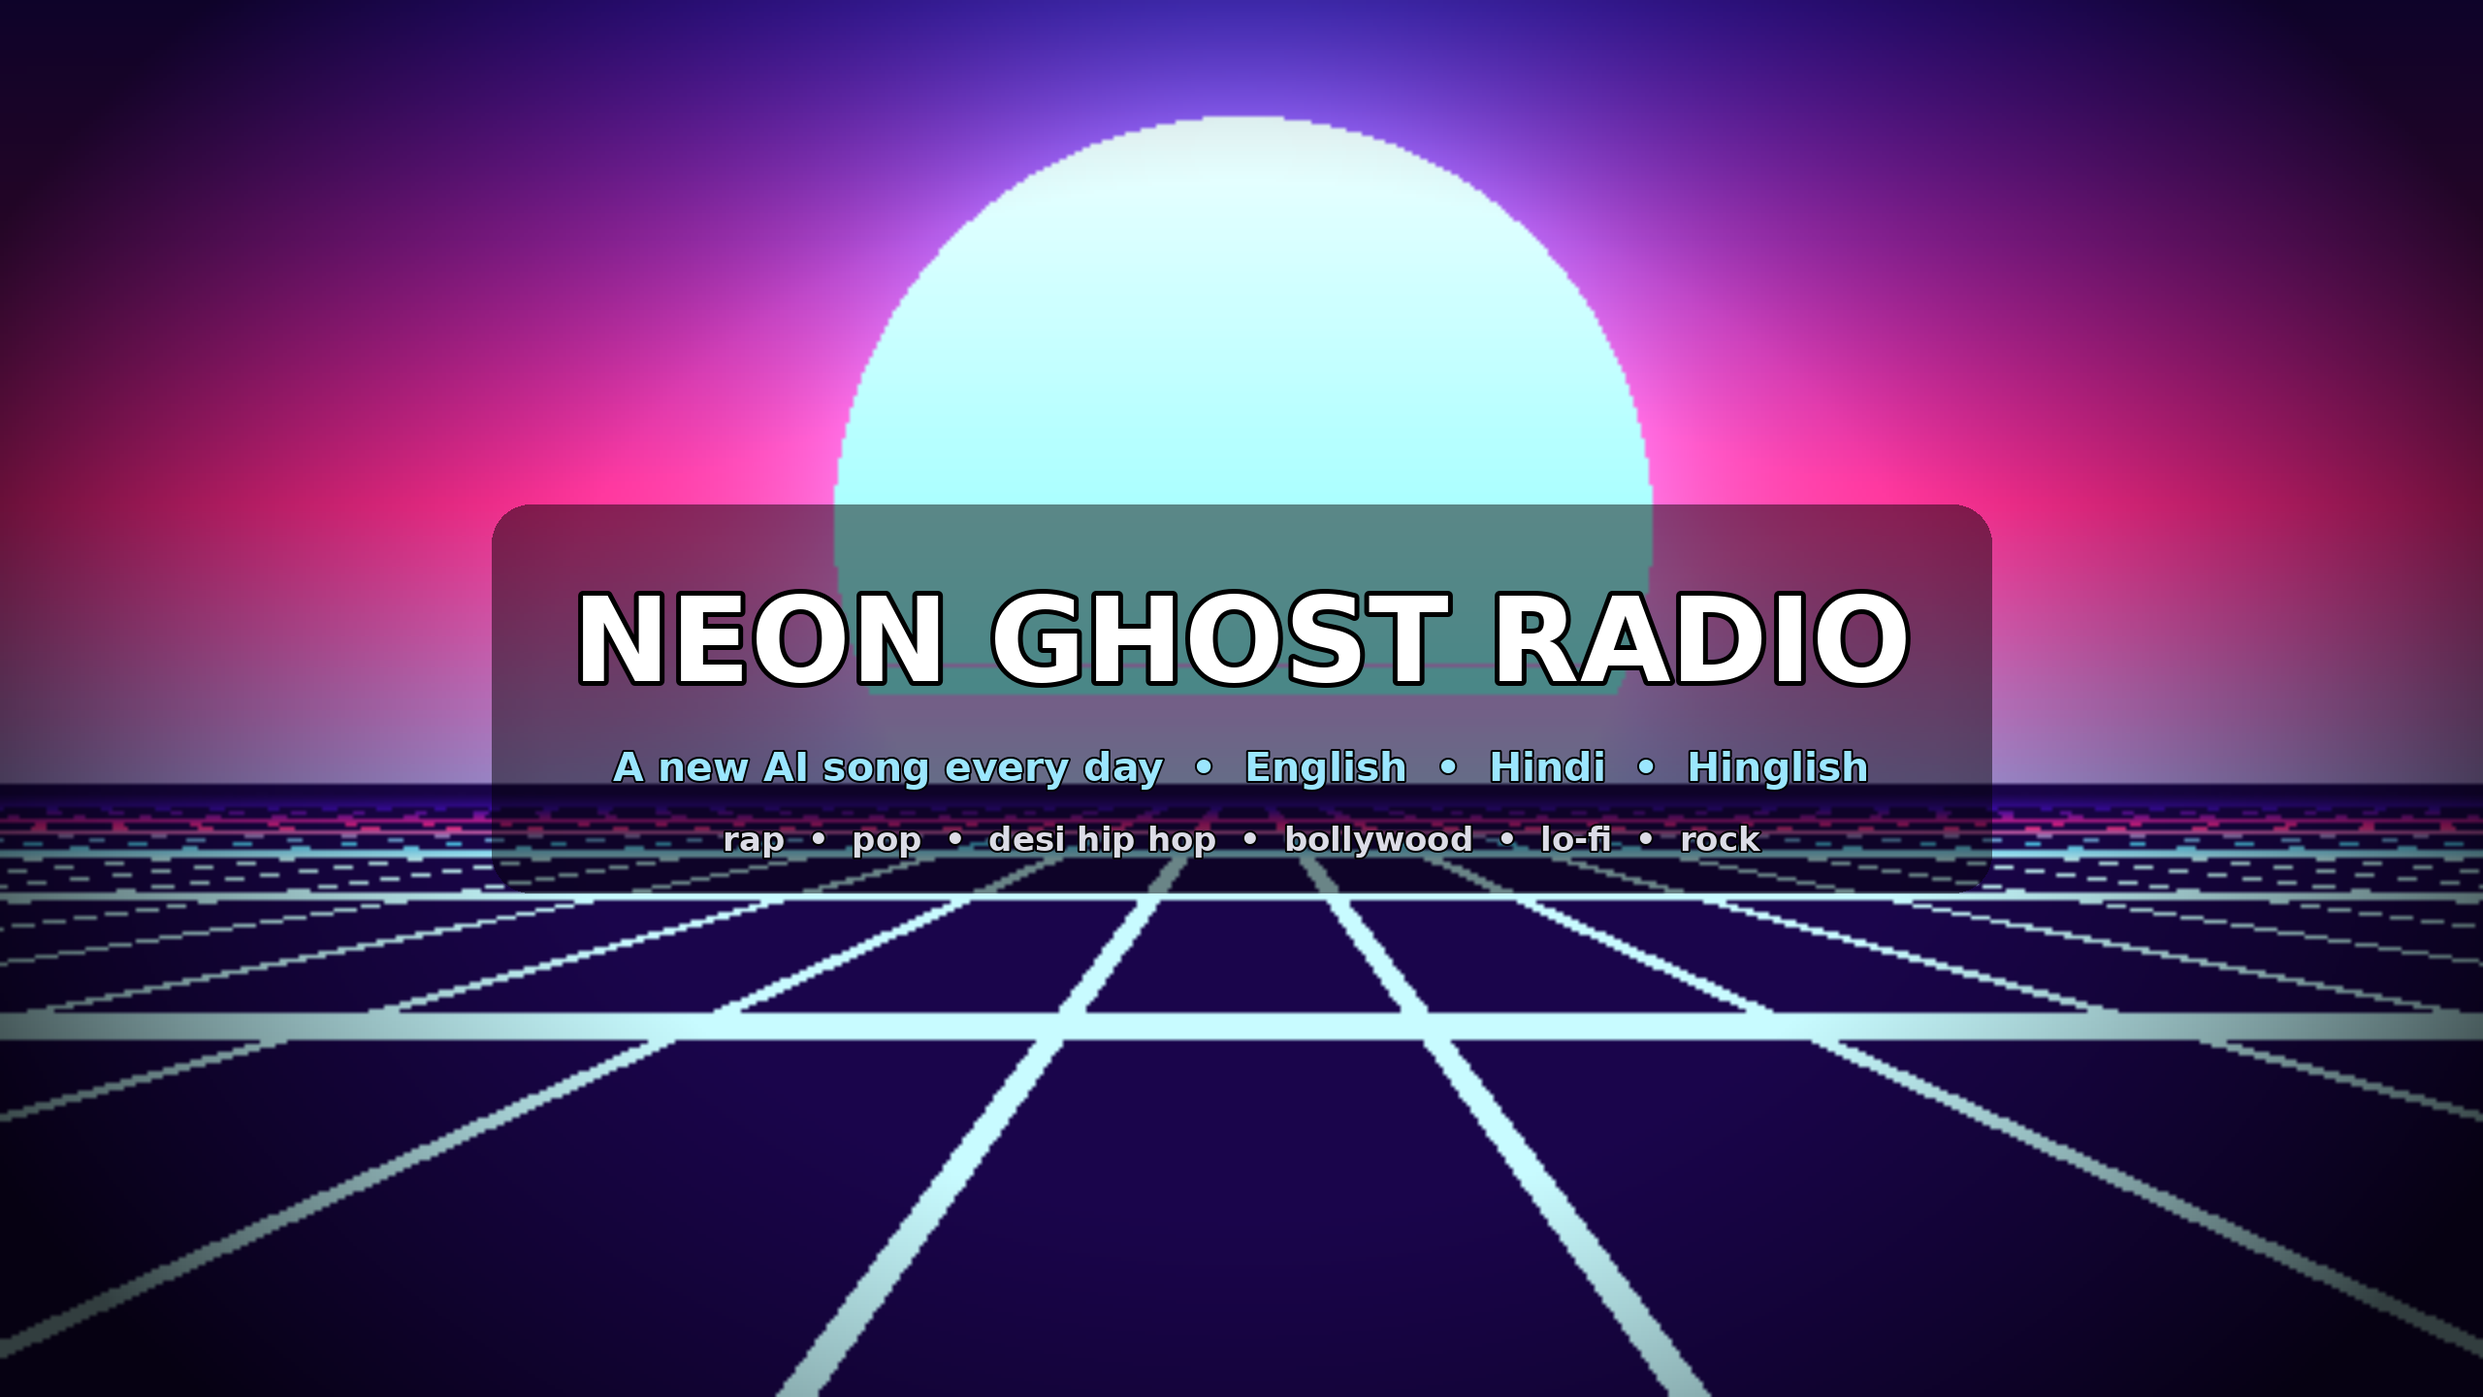
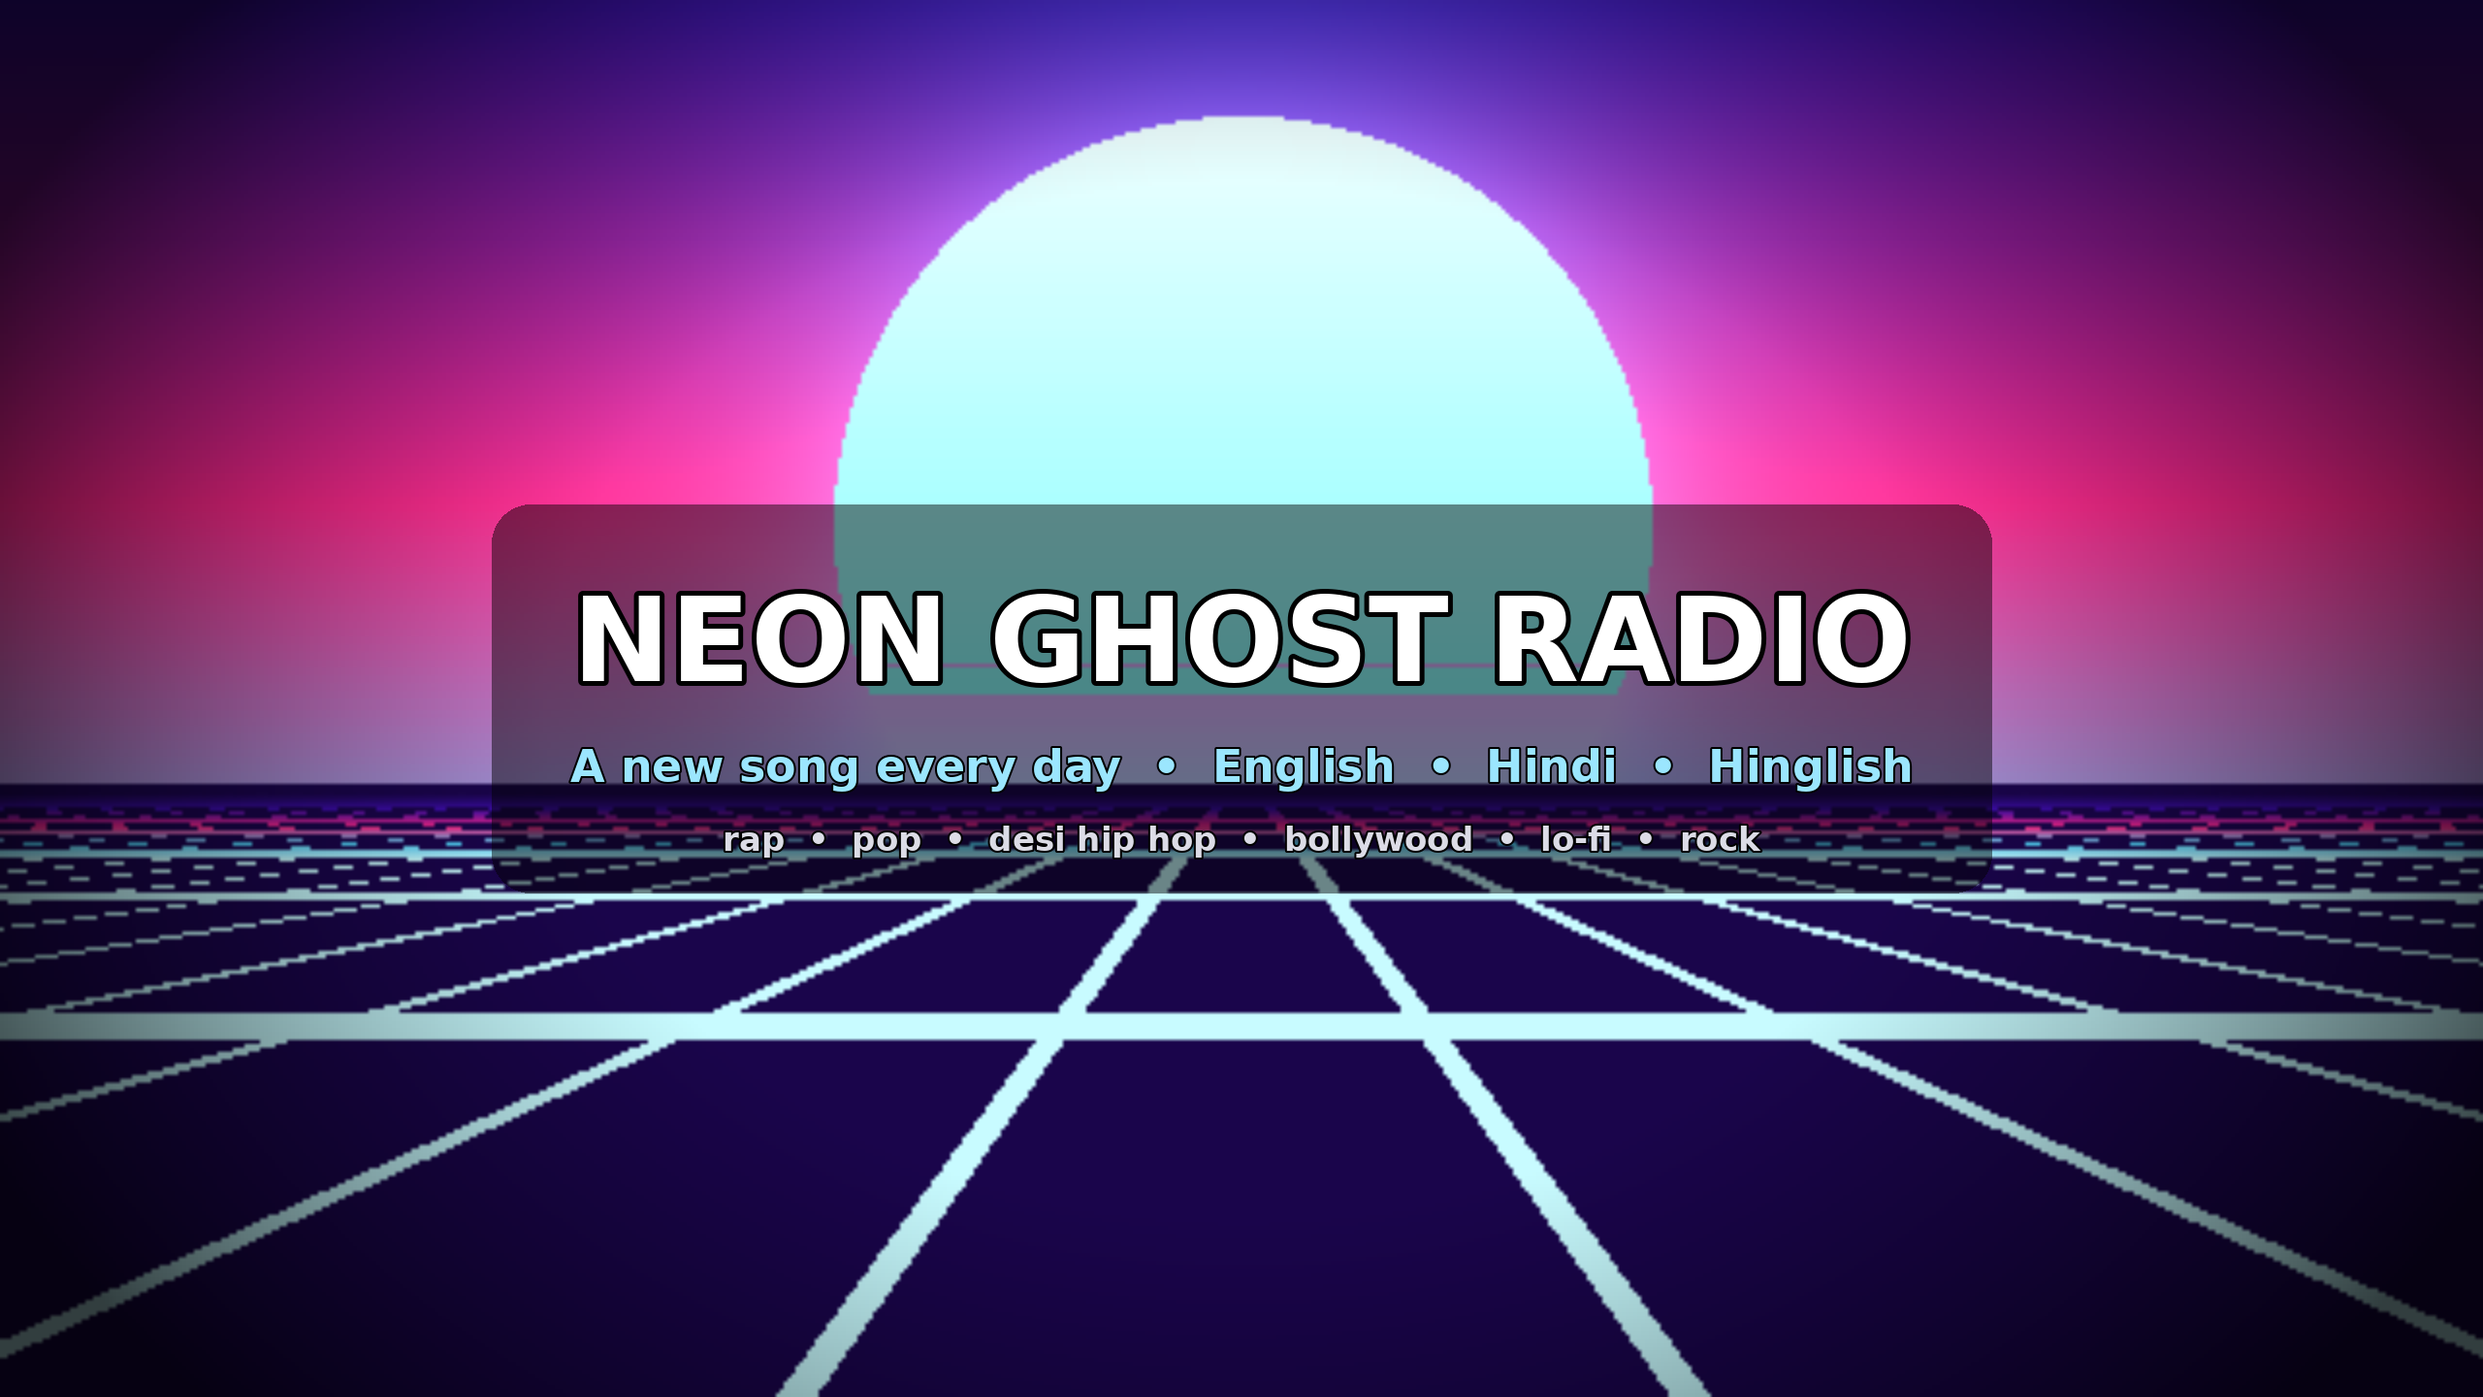
Keep AI out of audience-facing text until the creator chooses to reveal
New channel.disclose_ai setting (default false): titles, descriptions,
hashtags, tags and channel art no longer mention AI; the LLM is told not to,
and its description/hashtags are scrubbed as a safety net. Setting it to true
restores AI titles, a 'how this was made' section, AI tags and AI art.
YouTube's containsSyntheticMedia flag stays on in both modes.

Also: optional engagement_line for descriptions, and the thumbnail picker no
longer crashes on clips shorter than 6 s.

Claude-Session: https://claude.ai/code/session_01KDmuQhUS9HJp4N8W5B1dSm

Changed region(s): [[0.2188, 0.5312, 0.7812, 0.5625]]

diff --git a/src/songwriter.py b/src/songwriter.py
@@ -15,7 +15,7 @@ VISUAL_STYLES = {
     "waves": "layered glowing waveforms like ocean light",
 }
 
-SYSTEM = """You are a hit songwriter and creative director for an AI music YouTube channel that
+SYSTEM = """You are a hit songwriter and creative director for a music YouTube channel that
 releases songs in English, Hindi and Hinglish. You write ORIGINAL songs. Never copy or closely
 imitate existing lyrics, and never name or impersonate real artists. Keep lyrics radio-safe
 (no slurs, no explicit sexual content). Write vivid, specific, emotionally real lines with
@@ -69,7 +69,26 @@ Return JSON with exactly these keys:
   "hashtags": ["#tag", ...] (5-8)
 }}
 
-Structure: verse (8 lines), chorus (4-6 lines), verse (8 lines), chorus, bridge (4 lines), chorus."""
+Structure: verse (8 lines), chorus (4-6 lines), verse (8 lines), chorus, bridge (4 lines), chorus.
+{disclosure_rule}"""
+
+NO_AI_RULE = ("Do NOT mention AI, artificial intelligence, algorithms, or how the song was made anywhere in "
+              "the title, description or hashtags. Present it simply as a new song release.")
+
+_AI_RE = re.compile(r"\b(A\.?I\.?|artificial[ -]intelligence|AI[- ]generated|generated by|algorithm\w*|"
+                    r"machine[- ]made|neural|synthetic)\b", re.I)
+
+
+def scrub_ai(text: str) -> str:
+    """Drop whole sentences that mention AI / how the song was made."""
+    parts = re.split(r"(?<=[.!?…])\s+", text or "")
+    return " ".join(p for p in parts if not _AI_RE.search(p)).strip()
+
+
+def _is_ai_tag(tag: str) -> bool:
+    t = tag.lower().lstrip("#")
+    return bool(re.fullmatch(r"ai(music|song|songs|generated|art|rap|cover|singer|artist|vocals)?", t)
+                or "artificial" in t or "generated" in t)
 
 SEEDS = [
     "a late-night drive", "an old photograph", "winning against the odds", "a city that never sleeps",
@@ -119,7 +138,7 @@ def write_song(cfg: dict, history: list[dict], genre_override: str | None = None
     genre = pick_genre(cfg, lang["code"], history, genre_override, song_type)
     gtype = genre.get("type", "sung")
     if offline:
-        return _normalize(_offline_song(genre, lang["code"]), genre, lang)
+        return _scrub(_normalize(_offline_song(genre, lang["code"]), genre, lang), cfg)
     recent_themes = "; ".join(h.get("theme", "") for h in history[-15:]) or "none"
     try:
         spec = chat_json(
@@ -130,12 +149,22 @@ def write_song(cfg: dict, history: list[dict], genre_override: str | None = None
                 type_rule=TYPE_RULES[gtype], genre=genre["name"], style=genre["style"],
                 recent_themes=recent_themes, seed=random.choice(SEEDS),
                 styles=" | ".join(f'"{s}"' for s in VISUAL_STYLES),
+                disclosure_rule="" if cfg["channel"].get("disclose_ai") else NO_AI_RULE,
             ),
         )
-        return _normalize(spec, genre, lang)
+        return _scrub(_normalize(spec, genre, lang), cfg)
     except Exception as e:  # noqa: BLE001 — never miss a day because of the LLM
         print(f"::warning::LLM songwriting failed, using built-in fallback lyrics: {e}")
-        return _normalize(_offline_song(genre, lang["code"]), genre, lang)
+        return _scrub(_normalize(_offline_song(genre, lang["code"]), genre, lang), cfg)
+
+
+def _scrub(spec: dict, cfg: dict) -> dict:
+    if cfg["channel"].get("disclose_ai"):
+        return spec
+    spec["description"] = scrub_ai(spec.get("description", ""))
+    spec["hashtags"] = [h for h in spec["hashtags"] if not _is_ai_tag(h)]
+    spec["title"] = re.sub(r"\s*[(\[]?\bA\.?I\.?\b[)\]]?\s*", " ", spec["title"]).strip() or spec["title"]
+    return spec
 
 
 def _line_pair(l) -> tuple[str, str | None]:
@@ -241,7 +270,7 @@ def _offline_song(genre: dict, lang: str = "en") -> dict:
                                   ["#03071e", "#6a040f", "#e85d04", "#ffba08"],
                                   ["#011627", "#2ec4b6", "#e71d36", "#fdfffc"]]),
         "description": f"{title} is about refusing to fade into the noise of the city.",
-        "hashtags": ["#aimusic", "#newmusic", f"#{genre['name'].replace(' ', '')}"],
+        "hashtags": ["#newmusic", "#newsong", f"#{genre['name'].replace(' ', '').replace('&', 'n')}"],
     }
 
 
@@ -294,5 +323,5 @@ def _offline_song_hindi(genre: dict) -> dict:
         "palette": random.choice([["#1a0505", "#7a1f0f", "#e2711d", "#ffc971"],
                                   ["#05061a", "#2b2d7a", "#d1495b", "#edae49"]]),
         "description": "Ek akela raasta, ek maa ki seekh, aur roshni ki taraf badhte kadam.",
-        "hashtags": ["#hindisong", "#aimusic", "#desihiphop", "#newhindisong"],
+        "hashtags": ["#hindisong", "#desihiphop", "#newhindisong", "#hindirap"],
     }

diff --git a/src/main.py b/src/main.py
@@ -30,24 +30,31 @@ def load_history() -> list[dict]:
 
 
 def build_description(spec: dict, cfg: dict, engine: str) -> str:
-    ch = cfg["channel"]
-    return "\n".join([
-        spec["description"],
-        "",
+    ch, disclose = cfg["channel"], cfg["channel"].get("disclose_ai", False)
+    lines = [spec["description"], ""]
+    if cfg["youtube"].get("engagement_line"):
+        lines += [cfg["youtube"]["engagement_line"], ""]
+    lines += [
         f"🎧 {spec['title']} — {ch['artist']}",
         f"Genre: {spec['genre']}  |  Language: {spec['language_name']}  |  Mood: {spec['mood']}  |  {spec['bpm']} BPM",
         "",
         "📝 LYRICS",
         lyrics_text(spec).replace("[", "(").replace("]", ")"),
         "",
-        "🤖 HOW THIS WAS MADE",
-        f"Everything on {ch['name']} is generated by AI, automatically, every day.",
-        "Lyrics & concept: large language model",
-        f"Music & vocals: {engine}",
-        "Visuals: procedural audio-reactive animation",
-        "",
-        " ".join(spec["hashtags"] + ["#aimusic", "#aisong"] + (["#hindisong"] if spec["language"] != "en" else [])),
-    ])
+    ]
+    if disclose:
+        lines += [
+            "🤖 HOW THIS WAS MADE",
+            f"Everything on {ch['name']} is generated by AI, automatically, every day.",
+            "Lyrics & concept: large language model",
+            f"Music & vocals: {engine}",
+            "Visuals: procedural audio-reactive animation",
+            "",
+        ]
+    tags = spec["hashtags"] + (["#aimusic", "#aisong"] if disclose else ["#newmusic"]) \
+        + (["#hindisong"] if spec["language"] != "en" else [])
+    lines.append(" ".join(dict.fromkeys(tags)))
+    return "\n".join(lines)
 
 
 def main():
@@ -87,14 +94,17 @@ def main():
     mp4 = video.render(spec, cfg, audio, song["timings"], os.path.join(out, "video.mp4"))
     thumb = video.thumbnail(spec, cfg, audio, os.path.join(out, "thumbnail.jpg"))
 
+    disclose = cfg["channel"].get("disclose_ai", False)
     label = {"hi": "Hindi", "hinglish": "Hindi"}.get(spec["language"], "")
-    title = f"{spec['title']} | {cfg['channel']['artist']} ({spec['genre'].title()} {label + ' ' if label else ''}AI Song)"
+    kind = " ".join(x for x in (spec["genre"].title(), label, "AI Song" if disclose else "Song") if x)
+    title = f"{spec['title']} | {cfg['channel']['artist']} ({kind})"
     desc = build_description(spec, cfg, song["engine"])
-    tags = cfg["youtube"]["default_tags"] + [spec["genre"], f"{spec['genre']} song", spec["title"]] \
-        + [t.lstrip("#") for t in spec["hashtags"]]
+    tags = cfg["youtube"]["default_tags"] + (cfg["youtube"].get("ai_tags", []) if disclose else []) \
+        + [spec["genre"], f"{spec['genre']} song", spec["title"]] + [t.lstrip("#") for t in spec["hashtags"]]
     if spec["language"] != "en":
-        tags += ["hindi song", "new hindi song", "hindi ai song", "hindi rap" if spec["song_type"] == "rap"
-                 else "hindi gaana"]
+        tags += ["hindi song", "new hindi song", "hindi rap" if spec["song_type"] == "rap" else "hindi gaana"]
+        if disclose:
+            tags.append("hindi ai song")
     with open(os.path.join(out, "spec.json"), "w") as fh:
         json.dump({**spec, "engine": song["engine"], "timings": song["timings"], "yt_title": title,
                    "yt_description": desc}, fh, indent=2)

diff --git a/scripts/make_branding.py b/scripts/make_branding.py
@@ -37,6 +37,7 @@ def background(style, w, h, ds=2):
 
 def main():
     cfg = yaml.safe_load(open(os.path.join(ROOT, "config.yaml")))
+    ai = cfg["channel"].get("disclose_ai", False)
     name, artist = cfg["channel"]["name"], cfg["channel"]["artist"]
     out = os.path.join(ROOT, "branding")
     os.makedirs(out, exist_ok=True)
@@ -47,7 +48,7 @@ def main():
     video._ring(d, 400, 400, 205, fake_features()["spec"][0], 0.9, acc, 5)
     d.ellipse([200, 200, 600, 600], fill=(8, 8, 14), outline=acc, width=8)
     video._center_text(d, 400, 385, artist, video.font("title", 150), (255, 255, 255), 360)
-    video._center_text(d, 400, 488, "♪ AI MUSIC", video.font("body", 34), acc)
+    video._center_text(d, 400, 488, "♪ AI MUSIC" if ai else "♪ MUSIC", video.font("body", 34), acc)
     img.save(os.path.join(out, "avatar.png"))
 
     # banner 2560x1440 — only the centre 1546x423 is visible on every device
@@ -58,7 +59,7 @@ def main():
     img = Image.alpha_composite(img.convert("RGBA"), ov).convert("RGB")
     d = ImageDraw.Draw(img)
     video._center_text(d, 1280, 660, name.upper(), video.font("title", 150), (255, 255, 255), 1450)
-    video._center_text(d, 1280, 790, "A new AI song every day  •  English  •  Hindi  •  Hinglish",
+    video._center_text(d, 1280, 790, f"A new {'AI ' if ai else ''}song every day  •  English  •  Hindi  •  Hinglish",
                        video.font("body", 46), acc, 1450)
     video._center_text(d, 1280, 865, "rap  •  pop  •  desi hip hop  •  bollywood  •  lo-fi  •  rock",
                        video.font("body", 34), (220, 220, 230), 1450)

diff --git a/src/video.py b/src/video.py
@@ -401,7 +401,8 @@ def thumbnail(spec: dict, cfg: dict, audio: str, out_path: str) -> str:
     st.update(W=1280, H=720, ds=2, thumb=True)
     _init(st)
     f = st["f"]
-    i = int(np.argmax(np.convolve(f["energy"], np.ones(30), mode="same")[int(6 * f["fps"]):])) + int(6 * f["fps"])
+    skip = min(int(6 * f["fps"]), f["n"] // 3)  # skip the intro card, even on very short clips
+    i = int(np.argmax(np.convolve(f["energy"], np.ones(30), mode="same")[skip:])) + skip
     img = Image.frombytes("RGB", (1280, 720), render_frame(i))
     # repaint header area with big title
     ov = Image.new("RGBA", img.size, (0, 0, 0, 0))

diff --git a/branding/CHANNEL_SETUP.md b/branding/CHANNEL_SETUP.md
@@ -18,19 +18,20 @@ GitHub pipeline so it can upload.
 ## 3. Basic info (YouTube Studio → Customization → Basic info)
 **Description** (paste):
 
-> A brand-new AI-made song every single day, in English, Hindi and Hinglish.
-> Rap, pop, desi hip hop, Bollywood, lo-fi, rock, synthwave and more, each with its own audio-reactive music video and karaoke lyrics.
+> A brand-new song every single day, in English, Hindi and Hinglish.
+> Rap, pop, desi hip hop, Bollywood, lo-fi, rock, synthwave and more, each with its own animated music video and karaoke lyrics.
 >
-> 🤖 Everything here is created by AI: the lyrics, the vocals, the music and the visuals. Every song is original.
->
-> Har din ek naya AI gaana. Subscribe karo aur daily drop miss mat karo! 🔔
+> Har din ek naya gaana. Subscribe karo aur daily drop miss mat karo! 🔔
 
-**Links**: add your GitHub repo if you want to show how it's made.
+(While `channel.disclose_ai` is false, nothing on the channel mentions AI. On reveal day, set it to true,
+re-run `python scripts/make_branding.py`, re-upload the art and update this description.)
+
+**Links**: don't link the GitHub repo until reveal day; it's public and explains exactly how the songs are made.
 
 **Studio → Settings → Channel → Advanced settings**:
 - Audience: **No, not made for kids**
 - Country: India (or your own)
-- Keywords: `ai music, ai song, hindi song, hindi rap, desi hip hop, bollywood, new song, ai generated music, hinglish`
+- Keywords: `new music, hindi song, hindi rap, desi hip hop, bollywood, new song, hinglish, music video, lyrics`
 
 **Studio → Settings → Upload defaults**:
 - Category: **Music**

diff --git a/README.md b/README.md
@@ -68,6 +68,7 @@ When it finishes, download the `song-N` artifact to watch the video. Once you're
 
 ## Customize
 Everything is in **`config.yaml`**:
+- `channel.disclose_ai`: `false` keeps "AI" out of titles, descriptions, tags and channel art so viewers can guess; `true` is reveal mode. YouTube's synthetic-content flag is always set either way, as YouTube's policy requires.
 - `channel.name` / `artist`: your channel's branding
 - `genres`: add or remove genres and their sound descriptions
 - `song.duration_seconds`: song length (ACE-Step)
